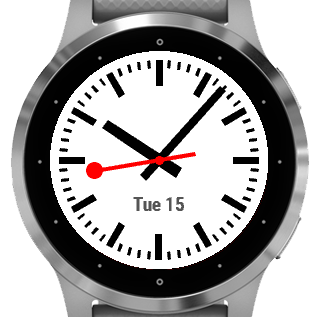
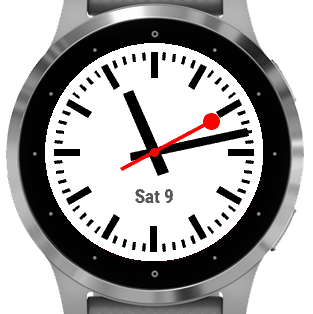
Added possibility to force showing seconds hand always.

diff --git a/README.md b/README.md
@@ -14,17 +14,18 @@ An open source analog watch that is in the style of the clocks you'll find at Sw
 
 In the settings, you can emulate a synchronization pulse, where the second hand runs a little fast, and then pauses at the 59 second mark before the minutes advance (emulating a central accurate clock sending a synchronization pulse). 
 
-A warning will show if battery drops below 30% (you can disable this if you prefer). It'll also show you a notification icon (can also be disabled).
+Note that the seconds hand will disappear when you're not looking at the watch (Garmin's "low power mode"). The hand should re-appear when you glance at the watch. Note that there is now a setting to force always showing the seconds hand, but this will cause MUCH higher battery usage, so use with caution.
+
+A warning will show if battery drops below 30%, turning red for less than 20% (you can disable the icon you prefer). It'll also show you a notification icon (can also be disabled).
 
 The date is printed, but that can be disabled too. 
 
 You can also invert black / white colors for a darker watch face. 
 
-
-
 #  What’s New (Optional) (Maximum 4,000 Characters)
 **V0.4.0**
 * Added a notification icon, with setting to disable if you don't want.
+* Added setting to force always showing the seconds hand, by popular request. 
 **V0.3.2**
 * Bug fix
 **V0.3.0**

diff --git a/betaVersionID.md b/betaVersionID.md
@@ -1,0 +1,3 @@
+The normal (public) version has UUID 09f79429-f5cd-49c1-93fc-59505bafc47f
+
+Beta version has UUID 4b3a65aa-5a8e-43fa-bdc0-02041196868a

diff --git a/TODO.md b/TODO.md
@@ -1,6 +1,5 @@
 # TODO
 
-2. ? Show second hand always
 
 
 
